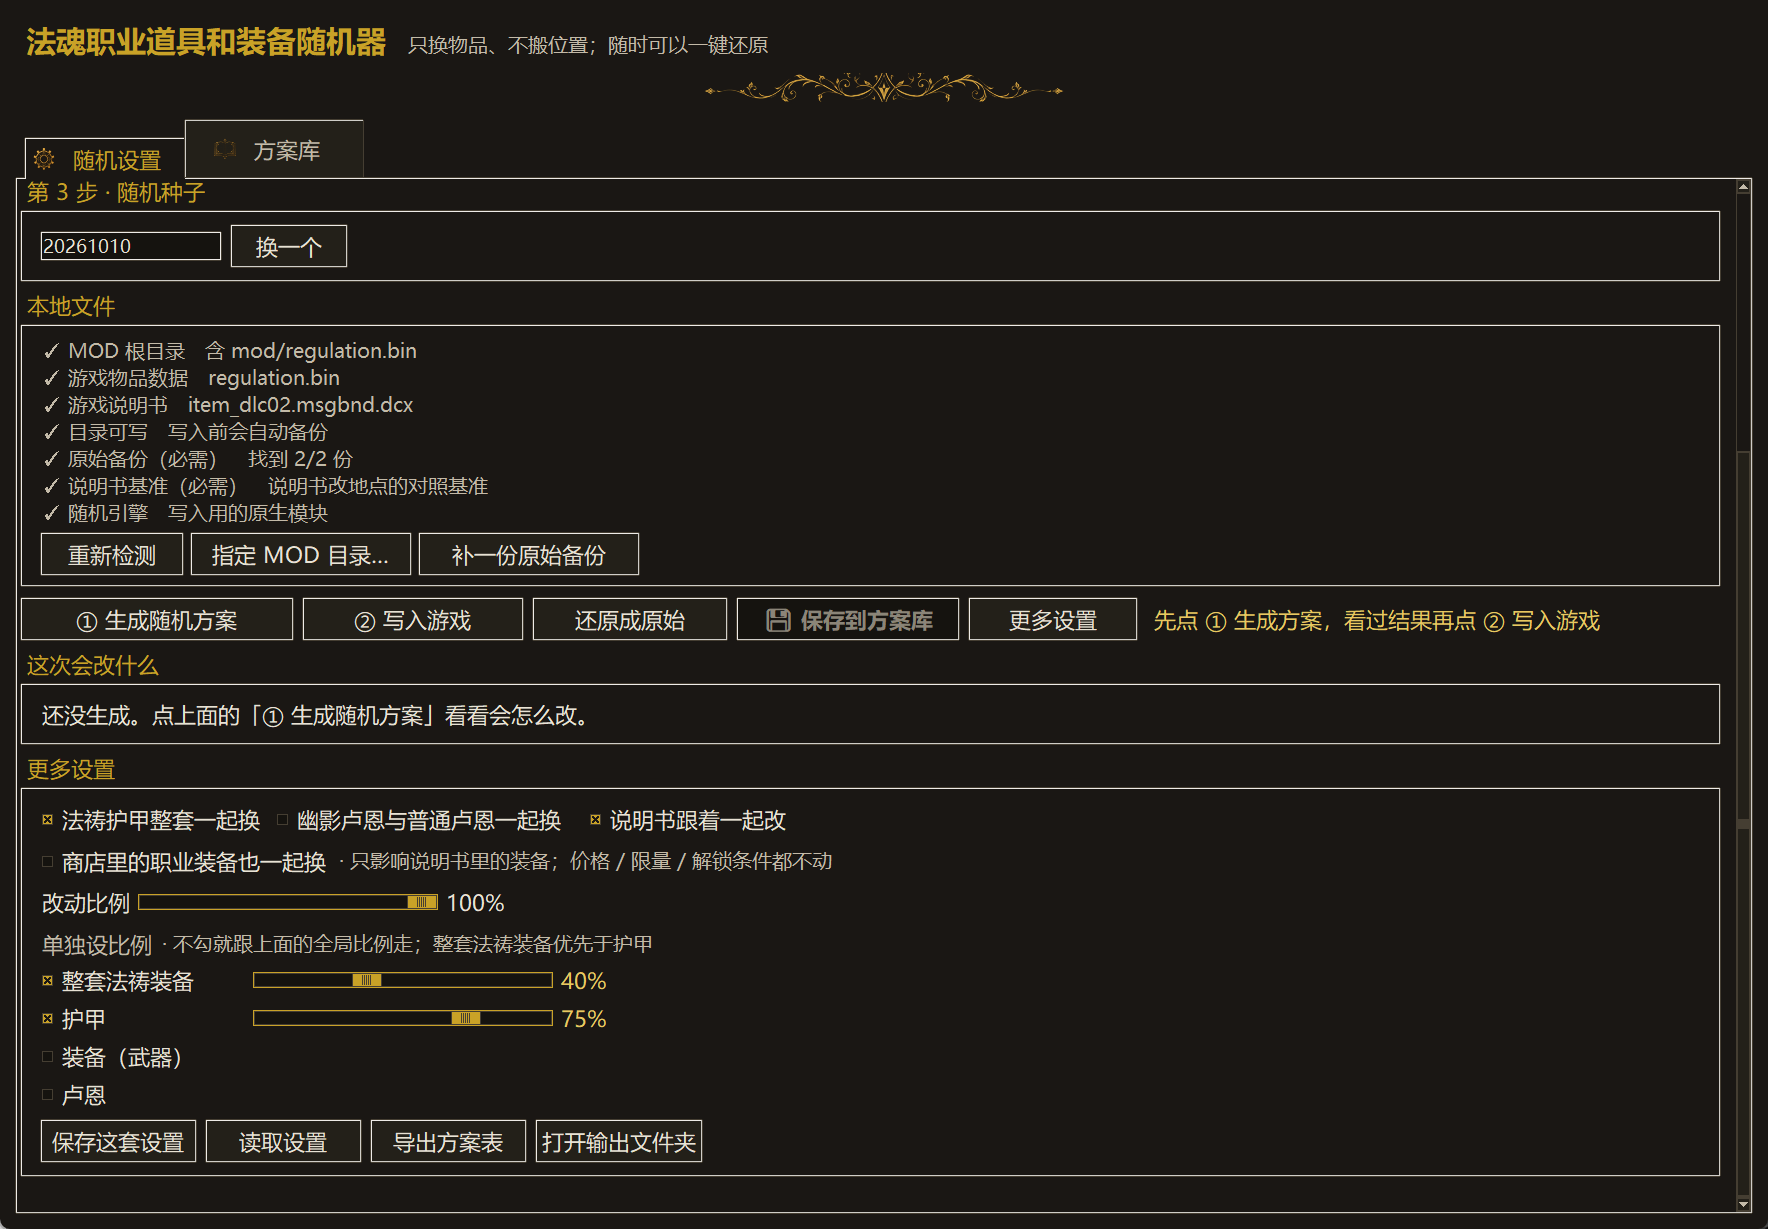
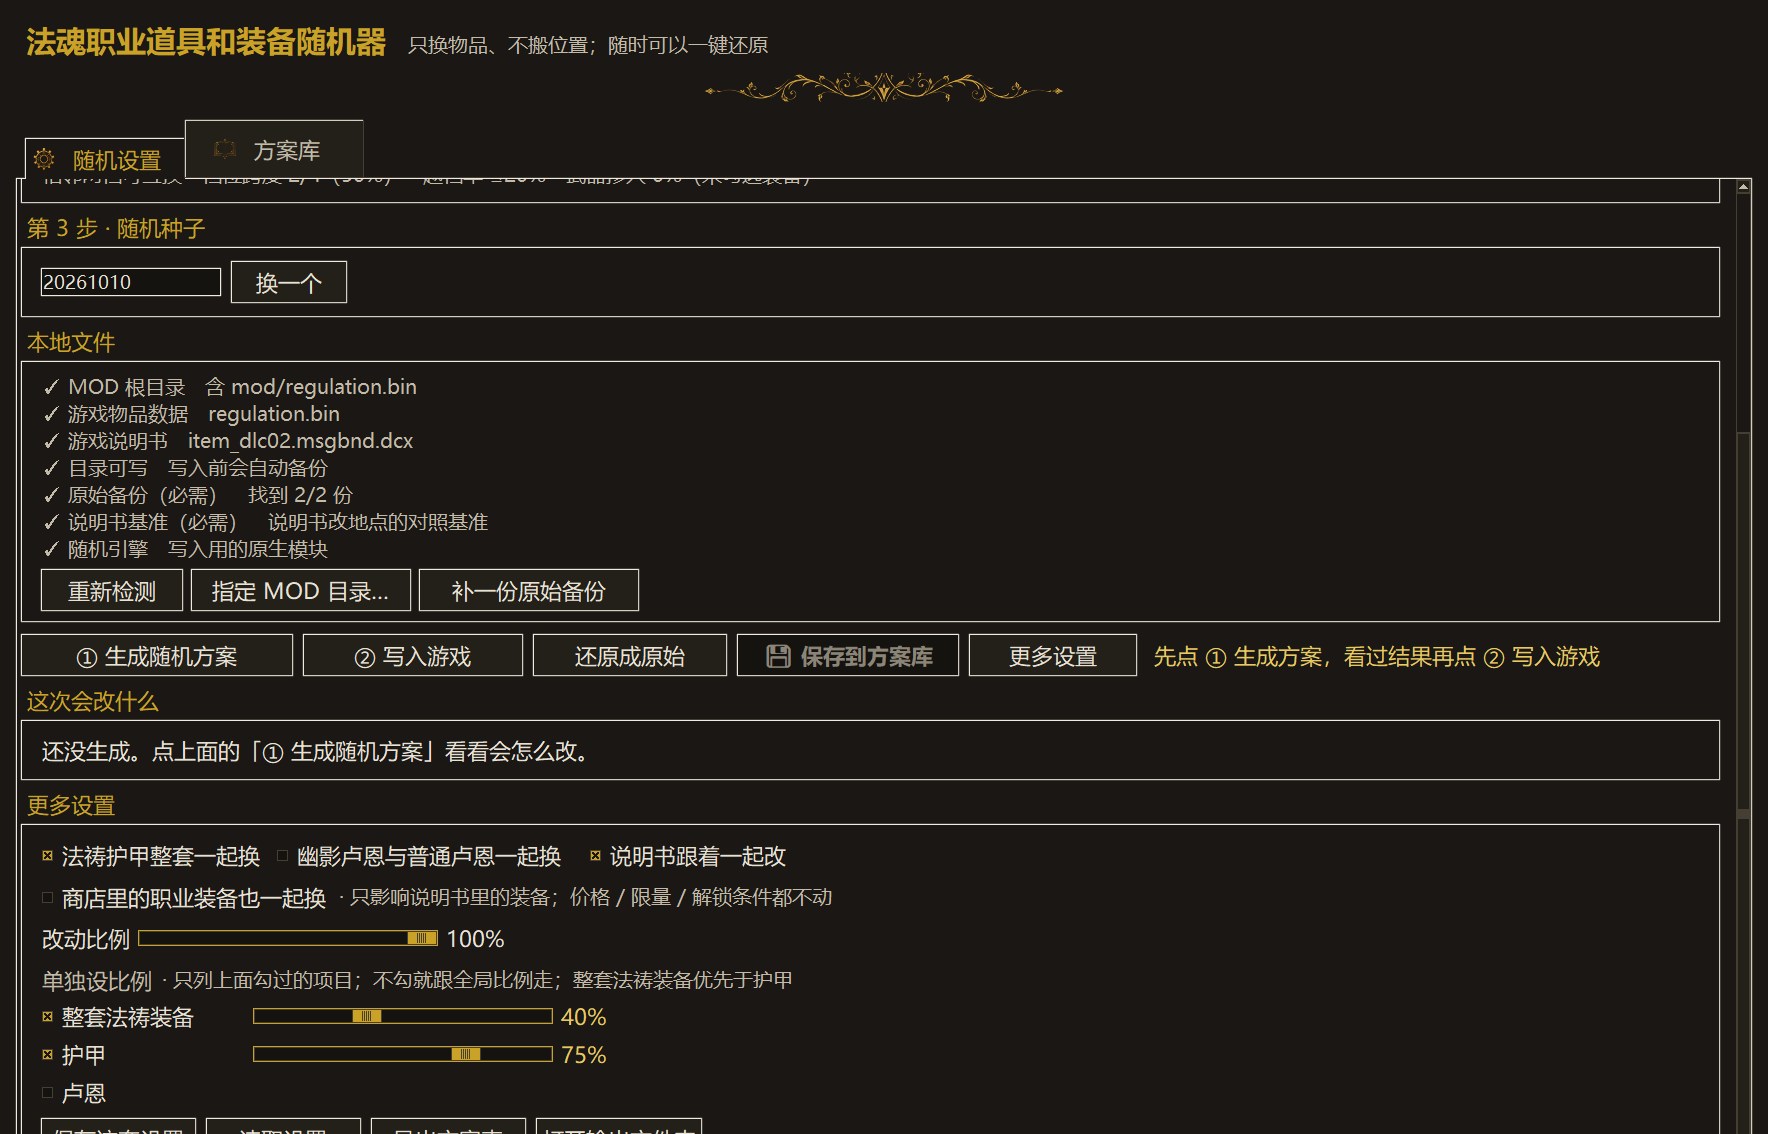
「单独设比例」跟着勾选的随机项目动态增减
作者要求：这几条比例要按第 1 步勾了哪些随机项目动态变。

- 没勾的类别不摆出来（摆着也没用）；取消护甲 ⇒ 整套法祷那条也跟着收；
  关掉「整套一起换」⇒ 整套那条也收（那时护甲按部位单件换，没有"整套"这条线）。
- 用 grid + grid_remove（不是 pack/pack_forget）：隐藏再恢复**顺序不会乱**。
- 收起来一定把勾选框清掉（值记着、但不带进 cfg）—— 避免"界面上看不见、却仍在生效"的值，
  这也是最难查的一类"改了没生效"。再勾回来时滑块记得原位置，点一下勾就能沿用。
- _rates() 再兜一道：当前用不上的键一律不进 cfg。
- 载入设置 / 方案库「载入到设置」：先定类别与"整套"开关，再填比例（顺序反了会被当成用不上丢掉）。
- uitest +6 条（取消类别收起 / 不带进 cfg / 勾回来值还在但勾选框干净 / 取消护甲整套也收 /
  关整套收起 / 开整套回来）；玩家说明 4b 与规格 §3.2.1 同步；界面图重拍。

验收：--uicheck/--selftest/--planlib/--uitest 全 PASS（uitest 里 10 条比例检查全绿）。

diff --git a/randgui.py b/randgui.py
@@ -634,7 +634,8 @@ class App:
         self.sets = tk.BooleanVar(value=True)
         self.shadow = tk.BooleanVar(value=False)
         self.guide = tk.BooleanVar(value=True)
-        ttk.Checkbutton(a1, text="法祷护甲整套一起换", variable=self.sets).pack(side="left")
+        ttk.Checkbutton(a1, text="法祷护甲整套一起换", variable=self.sets,
+                        command=self._refresh_rates).pack(side="left")
         ttk.Checkbutton(a1, text="幽影卢恩与普通卢恩一起换", variable=self.shadow).pack(side="left", padx=12)
         ttk.Checkbutton(a1, text="说明书跟着一起改", variable=self.guide).pack(side="left", padx=12)
         a2b = ttk.Frame(self.adv); a2b.pack(fill="x", pady=(6, 0))
@@ -654,14 +655,19 @@ class App:
         # ── 单独设比例：不勾 = 跟上面的全局比例走 ──
         #    整套法祷装备自成一个池，可以单独给比例（例如"卢恩全换、法祷整套只换四成"）。
         #    优先级：整套法祷装备 > 它的所属大类（护甲）。
+        #    这里跟着第 1 步勾了哪些随机项目**动态增减**：没勾的类别不摆出来（摆着也没用），
+        #    免得让人以为"勾了护甲的比例却没生效"。
         a2r = ttk.Frame(self.adv); a2r.pack(fill="x", pady=(8, 0))
         ttk.Label(a2r, text="单独设比例", style="Sub.TLabel").pack(side="left")
-        ttk.Label(a2r, text="· 不勾就跟上面的全局比例走；整套法祷装备优先于护甲",
+        ttk.Label(a2r, text="· 只列上面勾过的项目；不勾就跟全局比例走；整套法祷装备优先于护甲",
                   style="Hint.TLabel").pack(side="left", padx=6)
+        # 用 grid（不用 pack）：隐藏/恢复的时候格子还在，**顺序不会乱**
+        rgrid = ttk.Frame(self.adv); rgrid.pack(fill="x")
         self.rate_rows = {}
-        for key, text in (("sets", "整套法祷装备"), ("armor", "护甲"),
-                          ("weapon", "装备（武器）"), ("rune", "卢恩")):
-            row = ttk.Frame(self.adv); row.pack(fill="x", pady=1)
+        for i, (key, text) in enumerate((("sets", "整套法祷装备"), ("armor", "护甲"),
+                                         ("weapon", "装备（武器）"), ("rune", "卢恩"))):
+            row = ttk.Frame(rgrid)
+            row.grid(row=i, column=0, sticky="w", pady=1)
             on = tk.BooleanVar(value=False)
             val = tk.DoubleVar(value=1.0)
             lbl = ttk.Label(row, text="100%", width=6)
@@ -672,8 +678,8 @@ class App:
                             command=lambda k=key: self._rate_toggle(k)).pack(side="left")
             scale.pack(side="left", padx=6)
             lbl.pack(side="left")
-            self.rate_rows[key] = {"on": on, "val": val, "lbl": lbl, "scale": scale}
-            self._rate_toggle(key)          # 初始：未勾选 → 滑块先禁用
+            self.rate_rows[key] = {"on": on, "val": val, "lbl": lbl, "scale": scale, "row": row}
+        self._refresh_rates()               # 一建出来就按当前勾选理顺一次
 
         a3 = ttk.Frame(self.adv); a3.pack(fill="x", pady=(6, 0))
         for t, cmd in (("保存这套设置", self.save_cfg), ("读取设置", self.load_cfg),
@@ -1299,15 +1305,17 @@ class App:
             self.lbl_den.config(text=f"{float(cfg.get('density', 1.0)) * 100:.0f}%")
             self.guide.set(cfg.get("sync_guide", True))
             self.shops.set(bool(cfg.get("shops", False)))
+            # 先定类别与"整套"开关，再填单独比例（顺序反了会被当成"用不上"而丢掉）
+            for k, v in self.doms.items():
+                v.set(k in (cfg.get("domains") or ["rune", "armor", "weapon"]))
+            self._refresh_modes()
             # 单独设的比例也要填回来（旧方案里没有这两项 → 回到"跟全局比例走"）
             _rs2 = cfg.get("rate_sets")
             self._rate_set("sets", _rs2 is not None, _rs2)
             _rd2 = cfg.get("rate_domain") or {}
             for _k2 in ("armor", "weapon", "rune"):
                 self._rate_set(_k2, _k2 in _rd2, _rd2.get(_k2))
-            for k, v in self.doms.items():
-                v.set(k in (cfg.get("domains") or ["rune", "armor", "weapon"]))
-            self._refresh_modes()
+            self._refresh_rates()
         except Exception as e:
             self._lib_toast(f"载入没成功：{e}", bad=True)
             return
@@ -1386,11 +1394,12 @@ class App:
         return [d for d in ("rune", "armor", "weapon") if self.doms[d].get()]
 
     def _toggle_dom(self, key):
-        """至少保留一项；勾选变化后智能刷新混合方式"""
+        """至少保留一项；勾选变化后智能刷新混合方式（顺带把"单独设比例"那几条也理顺）"""
         if not self._picked_doms():
             self.doms[key].set(True)                      # 不允许全不勾
             messagebox.showinfo("至少勾一项", "至少要保留一个随机项目。")
         self._refresh_modes()
+        self._refresh_rates()
 
     def _refresh_modes(self, *_a):
         """混合方式随勾选项目智能变更（下拉里的文字直接写出项目名）"""
@@ -1578,6 +1587,35 @@ class App:
             messagebox.showerror("失败", str(e))
         self.refresh_env()
 
+    def _rate_applicable(self):
+        """哪几条"单独设比例"现在真的有用 —— 跟着第 1 步的勾选与"整套"开关走：
+        · 类别没勾 → 那一条没用（不摆出来）
+        · 没勾护甲 → 整套法祷装备也没用（它属于护甲）
+        · 关了"整套一起换" → 没有"整套"这条线了（护甲改成按部位单件换）"""
+        doms = self._picked_doms()
+        return {"armor": "armor" in doms,
+                "weapon": "weapon" in doms,
+                "rune": "rune" in doms,
+                "sets": ("armor" in doms) and bool(self.sets.get())}
+
+    def _refresh_rates(self, *_a):
+        """按当前勾选动态增减这几条比例行（隐藏的行**一定**回到未勾选，
+        否则会用着一个看不见的值去生成 —— 那是最难查的一类"没生效"）。"""
+        app = self._rate_applicable()
+        for key, r in (getattr(self, "rate_rows", None) or {}).items():
+            row = r.get("row")
+            if row is None:
+                continue
+            if app.get(key):
+                if not row.winfo_manager():
+                    row.grid()                     # grid_remove 过的格子记得位置 ✓
+            else:
+                if row.winfo_manager():
+                    row.grid_remove()
+                if r["on"].get():
+                    r["on"].set(False)
+            self._rate_toggle(key)
+
     def _rate_toggle(self, key, *_a):
         """勾了才把滑块摆出来 —— 不勾就是"跟全局比例走"，看不见滑块最不容易误会
         （clam 主题下 disabled 的 Scale 和正常的长得一样，只靠灰字分不清）"""
@@ -1613,10 +1651,11 @@ class App:
         self._rate_toggle(key)
 
     def _rates(self):
-        """收集"单独设比例"：没勾的不进 cfg（等于跟全局比例走）"""
+        """收集"单独设比例"：没勾的、以及当前**用不上**的都不进 cfg（等于跟全局比例走）"""
         out = {}
+        app = self._rate_applicable()
         for key, r in (self.rate_rows or {}).items():
-            if r["on"].get():
+            if app.get(key) and r["on"].get():
                 out[key] = round(float(r["val"].get()), 3)
         return out
 
@@ -1825,16 +1864,18 @@ class App:
         self.lbl_coh.config(text=f"{float(c.get('coherence',0.8))*100:.0f}%")
         self.lbl_den.config(text=f"{float(c.get('density',1.0))*100:.0f}%")
         self.guide.set(c.get("sync_guide", True))
+        # 先定类别（勾了哪些随机项目）与"整套"开关，再填单独比例 —— 顺序反了会被当成"用不上"而丢掉
+        _d = c.get("domains") or ["rune", "armor", "weapon"]
+        for k, v in self.doms.items():
+            v.set(k in _d)
+        self._refresh_modes()
         # 单独设的比例：rate_sets + rate_domain（旧设置文件里没有这两项 → 全部回到"跟全局比例走"）
         _rs = c.get("rate_sets")
         self._rate_set("sets", _rs is not None, _rs)
         _rd = c.get("rate_domain") or {}
         for _k in ("armor", "weapon", "rune"):
             self._rate_set(_k, _k in _rd, _rd.get(_k))
-        _d = c.get("domains") or ["rune", "armor", "weapon"]
-        for k, v in self.doms.items():
-            v.set(k in _d)
-        self._refresh_modes()
+        self._refresh_rates()
         _vals = list(self.cb_mode.cget("values"))
         if len(_vals) > 1:
             self.mode.set(_vals[1] if c.get("cross_domain") is False else _vals[0])
@@ -2266,6 +2307,39 @@ def _uitest_actions(app, root, planlib, a, b, tmp, checks, ck):
     ck("单独比例：旧方案没有这两项 ⇒ 载入后回到跟全局走",
        _c2.get("rate_sets") is None and _c2.get("rate_domain") is None,
        f"rate_sets={_c2.get('rate_sets')} rate_domain={_c2.get('rate_domain')}")
+
+    # ── 动态：这几条跟着第 1 步的勾选（与"整套"开关）增减 ──
+    app._rate_set("rune", True, 0.6)
+    app.doms["rune"].set(False); app._toggle_dom("rune"); root.update()
+    ck("单独比例：类别没勾就不摆出来（取消卢恩 ⇒ 卢恩那条收起来）",
+       not app.rate_rows["rune"]["row"].winfo_manager()
+       and bool(app.rate_rows["armor"]["row"].winfo_manager()),
+       f"卢恩={app.rate_rows['rune']['row'].winfo_manager()!r} "
+       f"护甲={app.rate_rows['armor']['row'].winfo_manager()!r}")
+    ck("单独比例：收起来的那条不会偷偷带进 cfg",
+       not (app._collect().get("rate_domain") or {}).get("rune"),
+       f"rate_domain={app._collect().get('rate_domain')}")
+    app.doms["rune"].set(True); app._toggle_dom("rune"); root.update()
+    ck("单独比例：勾回来那条又出现（值记着，勾选框是干净的）",
+       bool(app.rate_rows["rune"]["row"].winfo_manager())
+       and round(app.rate_rows["rune"]["val"].get(), 2) == 0.6
+       and not app.rate_rows["rune"]["on"].get(),
+       f"可见={bool(app.rate_rows['rune']['row'].winfo_manager())} "
+       f"值={round(app.rate_rows['rune']['val'].get(), 2)} 勾={app.rate_rows['rune']['on'].get()}")
+    app.doms["armor"].set(False); app._toggle_dom("armor"); root.update()
+    ck("单独比例：取消护甲 ⇒ 整套那条也收起来（整套属于护甲）",
+       not app.rate_rows["sets"]["row"].winfo_manager()
+       and not app.rate_rows["armor"]["row"].winfo_manager(),
+       f"整套={app.rate_rows['sets']['row'].winfo_manager()!r}")
+    app.doms["armor"].set(True); app._toggle_dom("armor"); root.update()
+    app.sets.set(False); app._refresh_rates(); root.update()
+    ck("单独比例：关掉「整套一起换」⇒ 整套那条收起来（那时没有'整套'这条线）",
+       not app.rate_rows["sets"]["row"].winfo_manager(),
+       f"整套={app.rate_rows['sets']['row'].winfo_manager()!r}")
+    app.sets.set(True); app._refresh_rates(); root.update()
+    ck("单独比例：打开「整套一起换」⇒ 整套那条回来",
+       bool(app.rate_rows["sets"]["row"].winfo_manager()),
+       f"整套={app.rate_rows['sets']['row'].winfo_manager()!r}")
     app.nb.select(app.page_lib)
 
     n0 = len(planlib.list_plans())

diff --git a/docs/使用说明（给玩家）.md b/docs/使用说明（给玩家）.md
@@ -82,6 +82,13 @@
 - 优先级：**整套法祷装备 > 护甲 > 全局**（套装那一条最优先）。
 - 不勾的条目**滑块会收起来** ✓ —— 收起来 = 它跟着全局比例走，不会偷偷用上一次的值 ✓。
 
+**这几条会跟着你上面勾的随机项目变** ✓：
+- 第 1 步**没勾**的类别，这里就不摆出来（摆了也没用）✓。
+- 取消了「护甲」，**整套法祷装备**那条也跟着收起来 ✓（它属于护甲）。
+- 取消了「法祷护甲整套一起换」，**整套法祷装备**那条也收起来 ✓（那时护甲是按部位单件换，没有"整套"这条线）。
+- 收起来不会丢你的设置：再勾回来时**滑块记得原来的位置**，但勾选框是干净的 ✓ ——
+  要用它就再点一下勾 ✓（这样不会出现"看不见的地方还留着一个值"）。
+
 > 例：全局 100% + 整套法祷 40% → 卢恩/武器照常全换，法祷套装大约换四成，
 > 散件（凑不成整套的那几件）仍然跟全局走 ✓。"这次会改什么"里会直接给出换了几套、几件 ✓。
 
